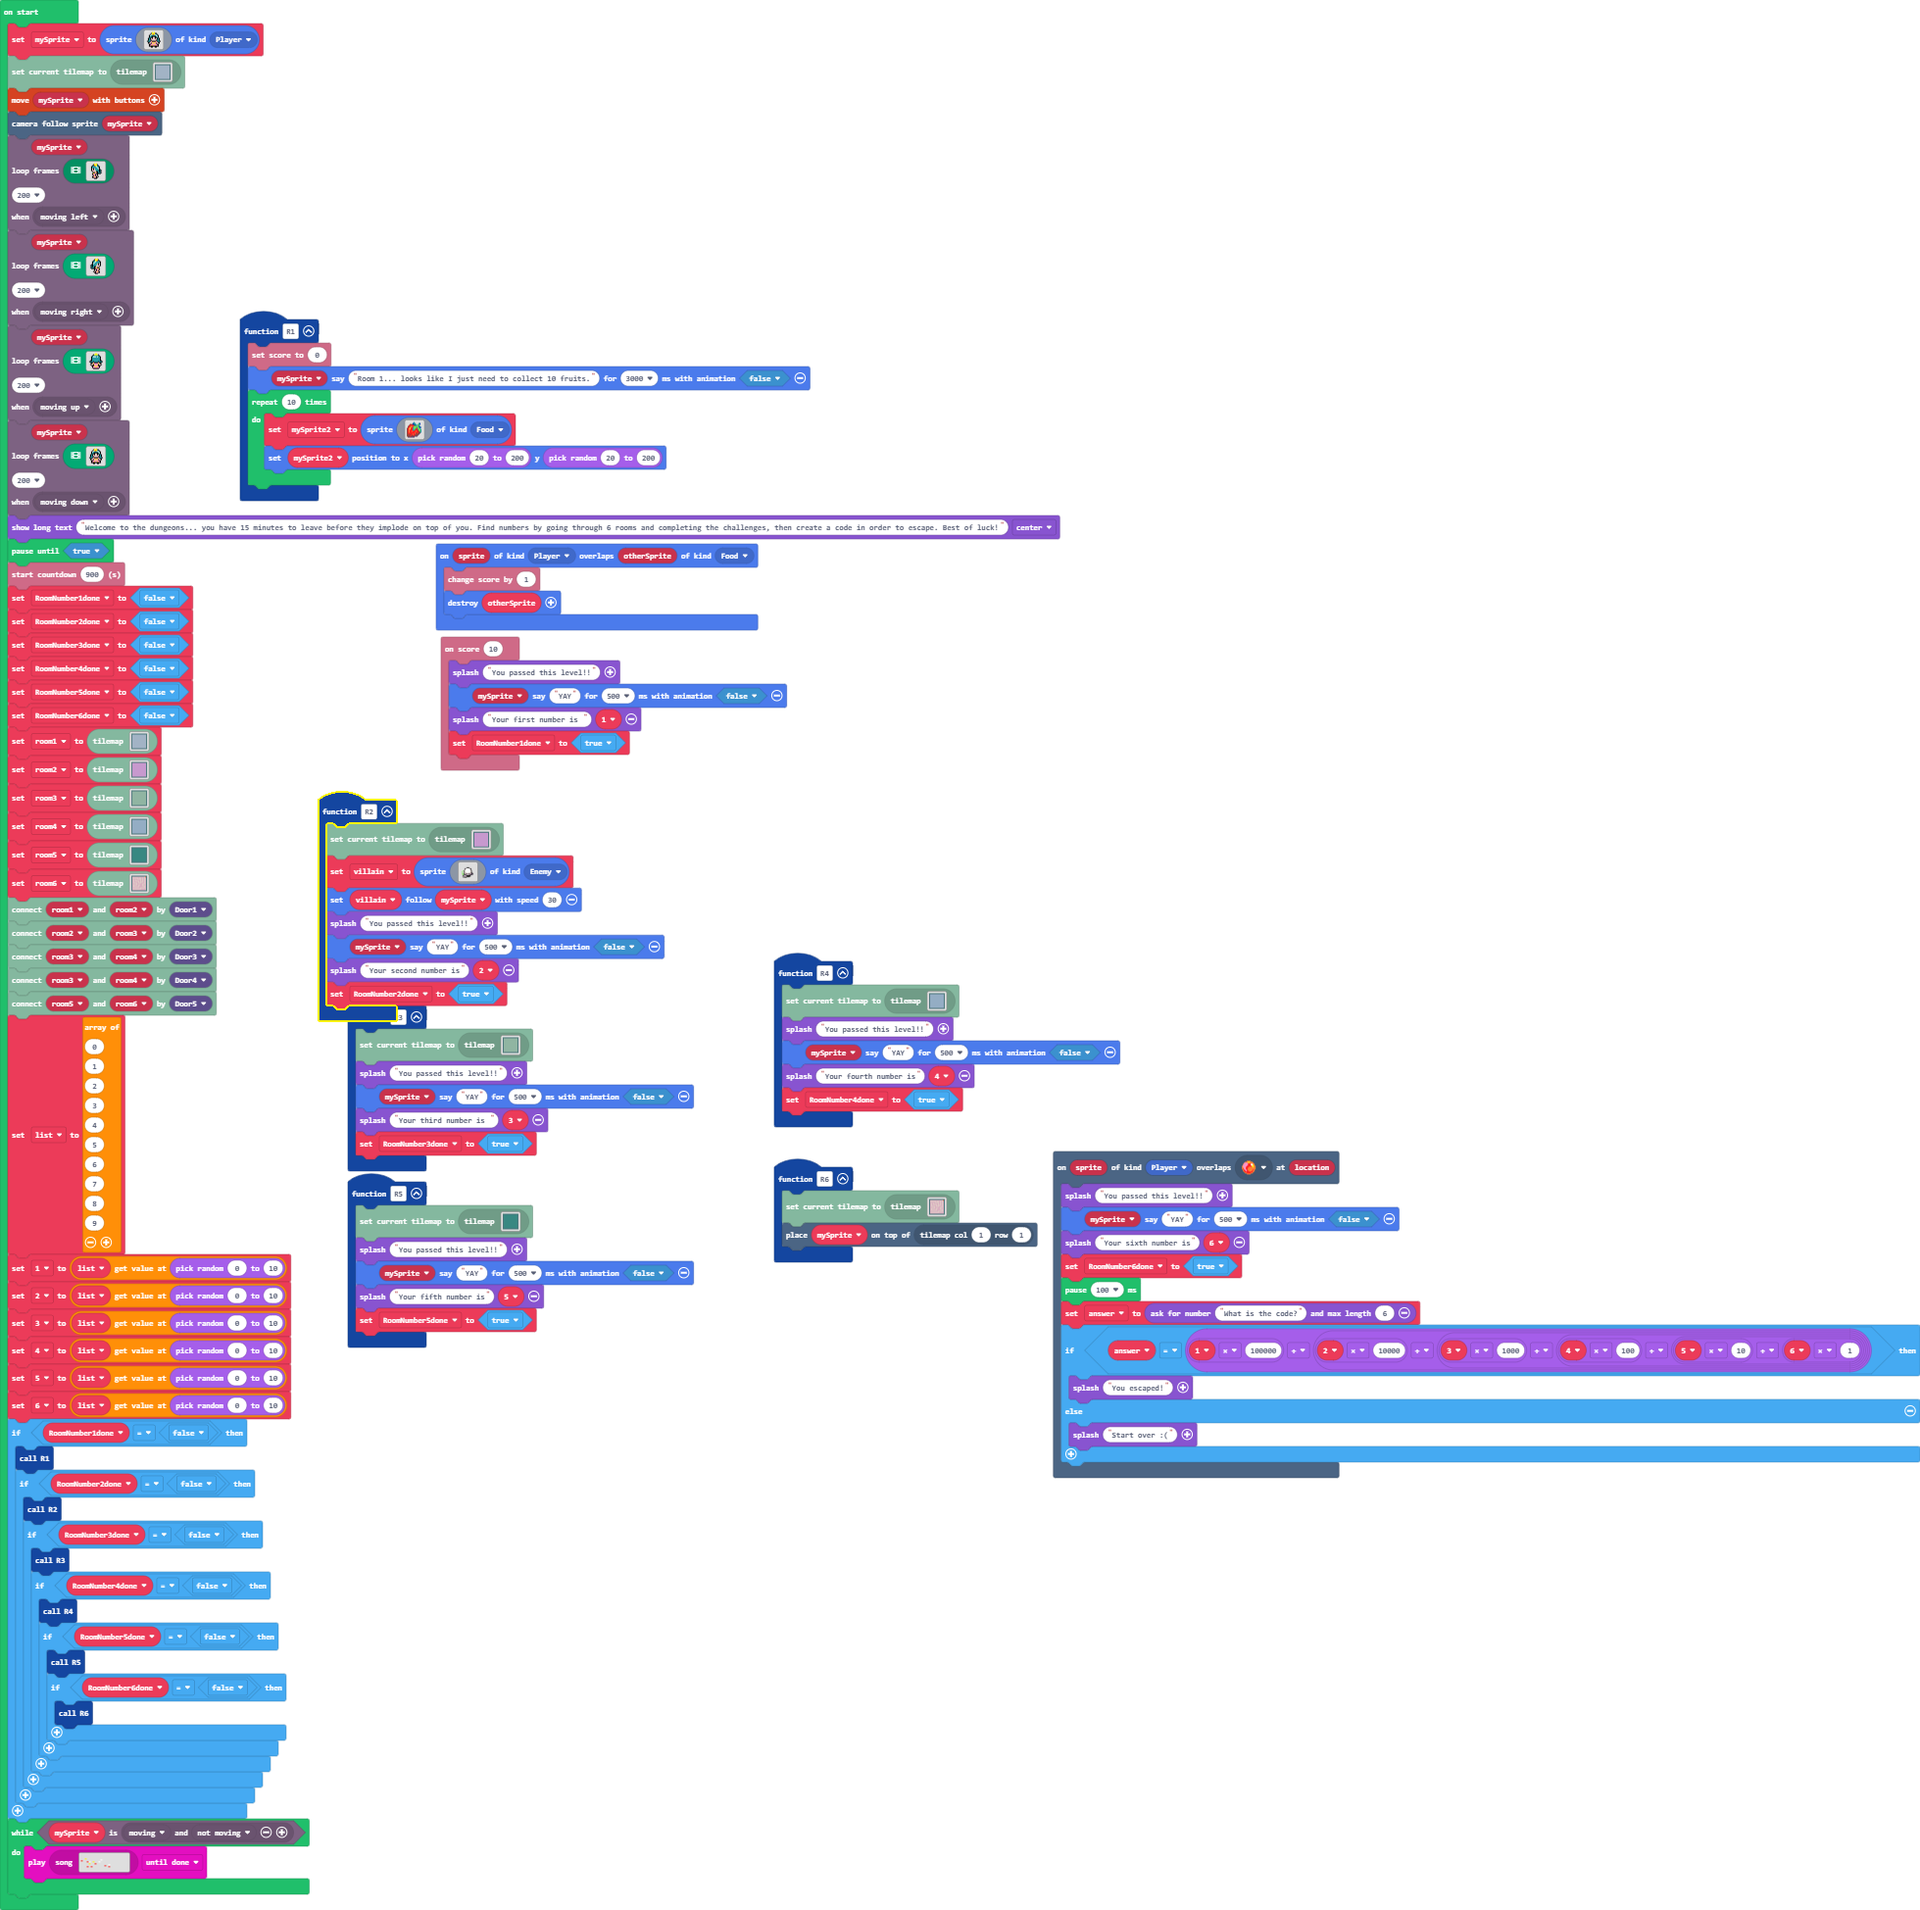
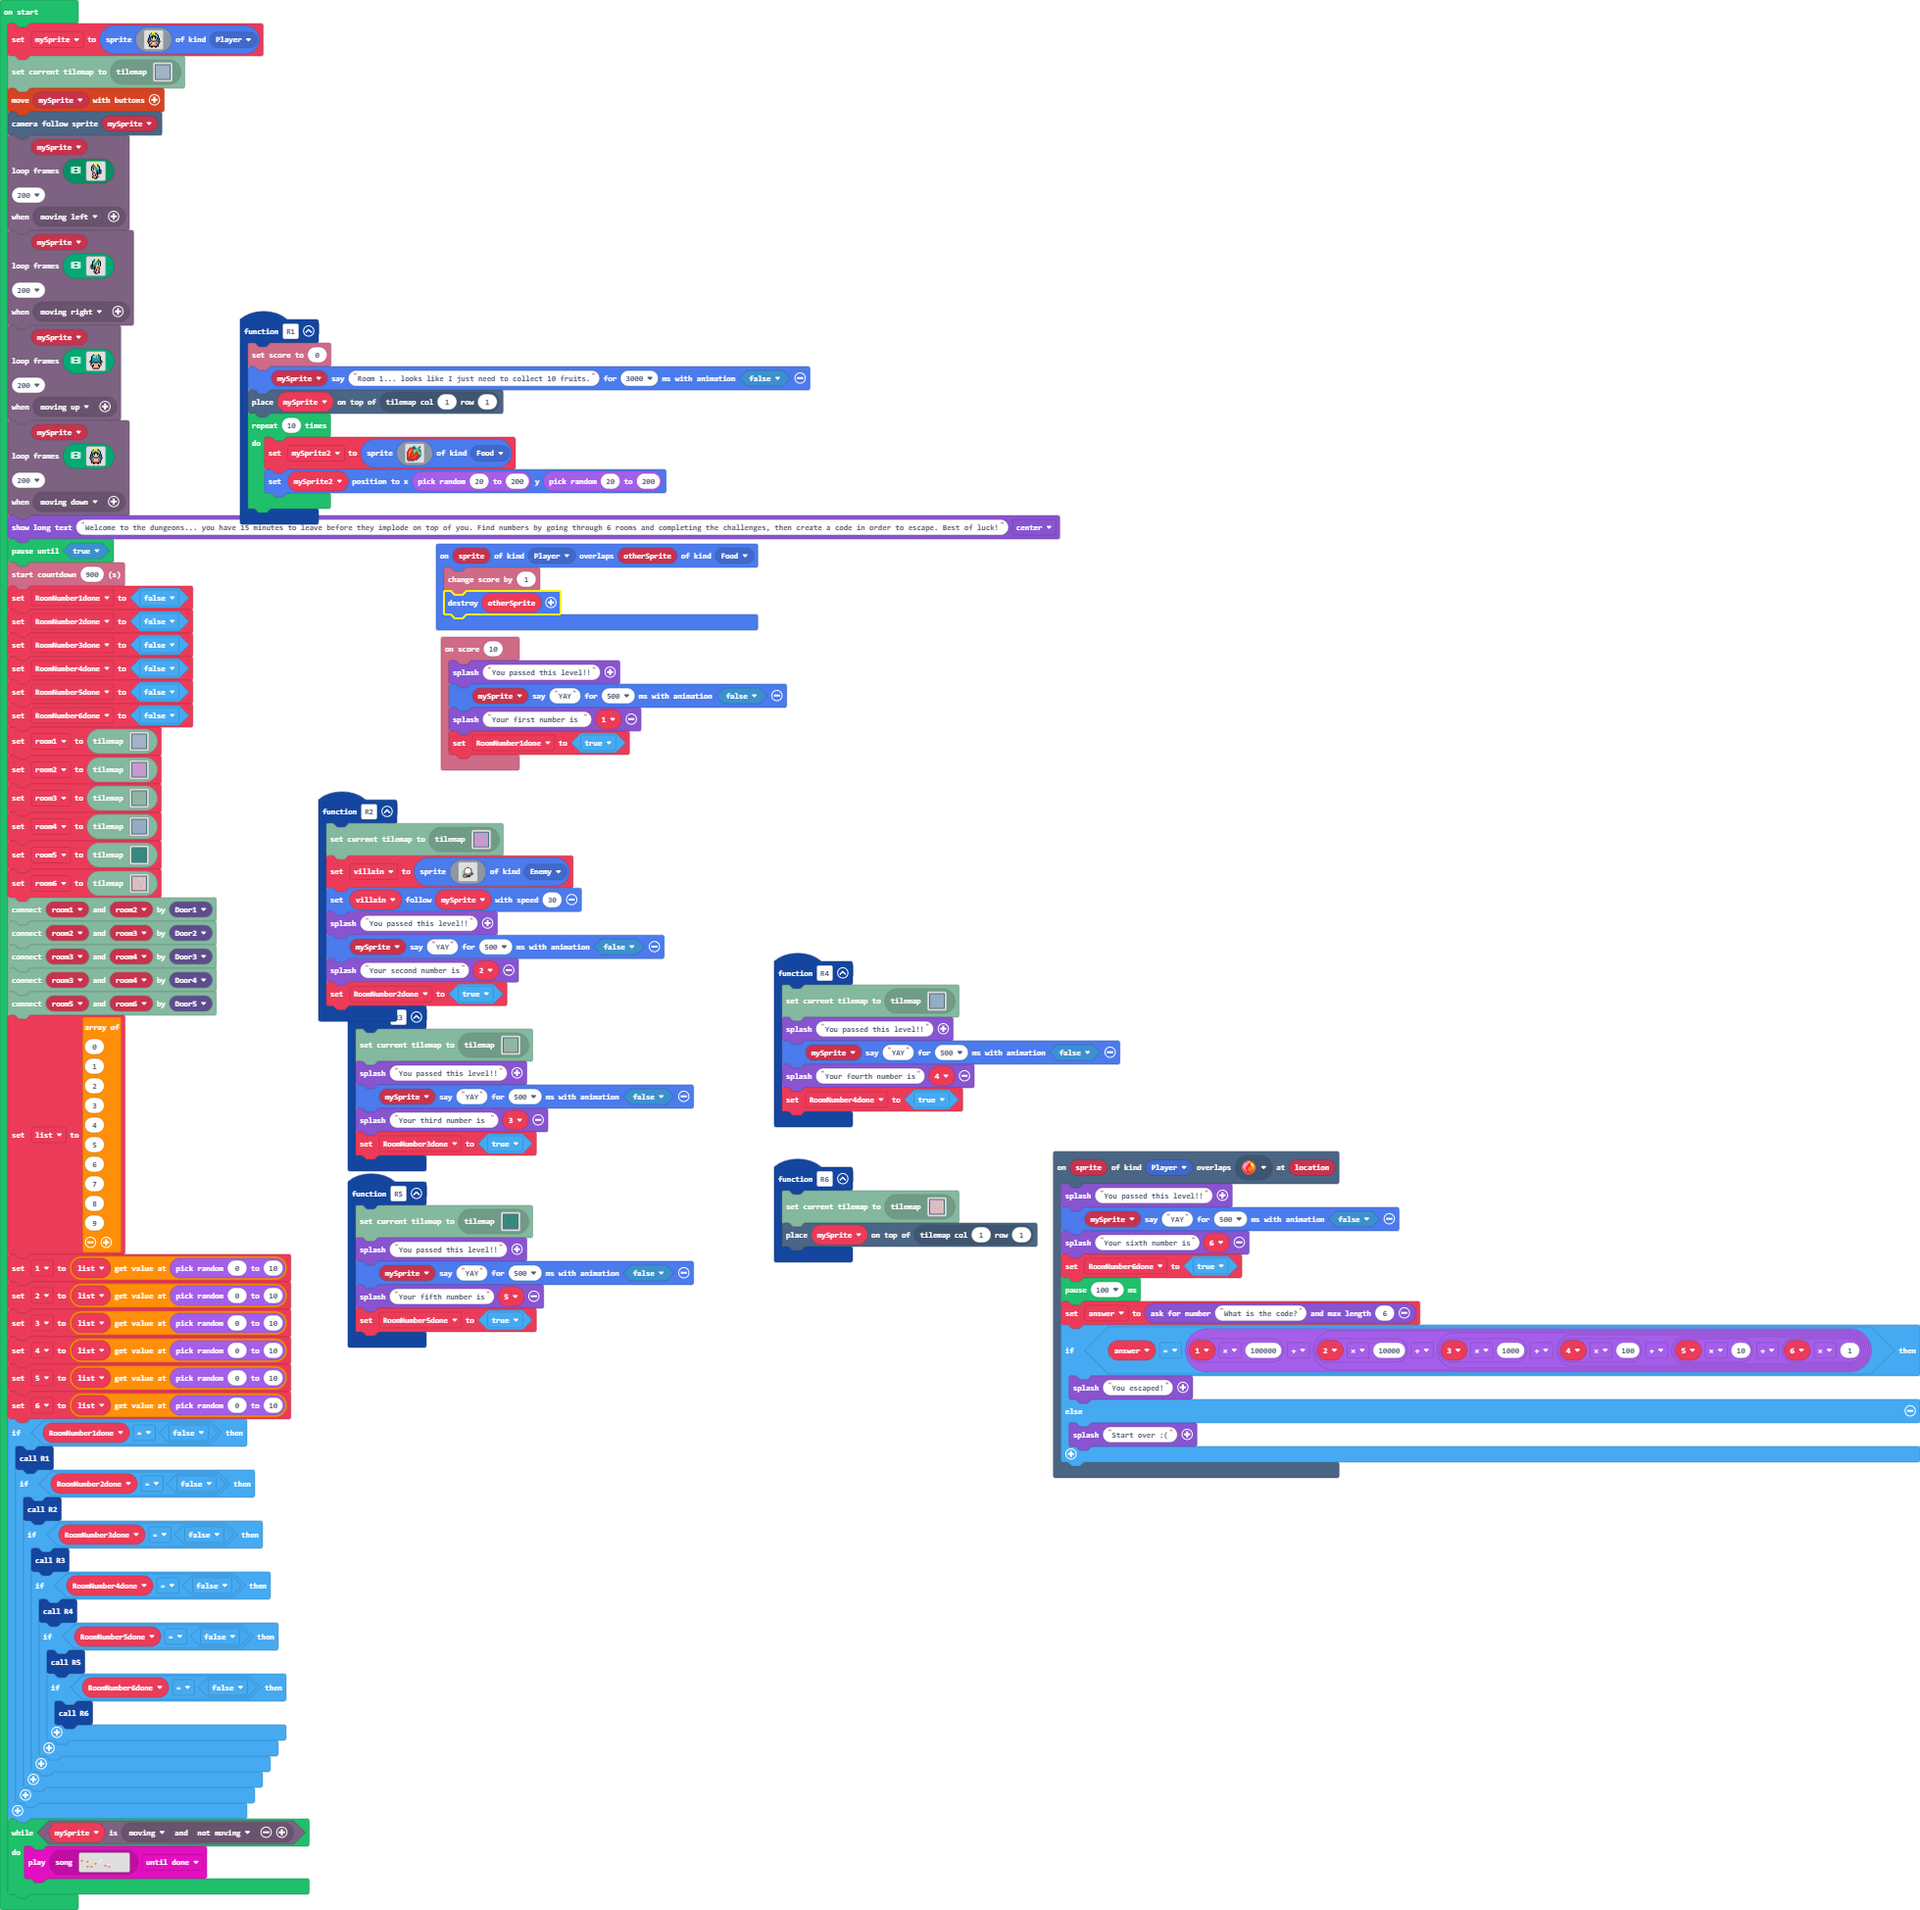
location of sprite

Changed region(s): [[0.1246, 0.1847, 0.3425, 0.2771]]

diff --git a/main.ts b/main.ts
@@ -10,6 +10,7 @@ function R6 () {
 function R1 () {
     info.setScore(0)
     mySprite.sayText("Room 1... looks like I just need to collect 10 fruits.", 3000, false)
+    tiles.placeOnTile(mySprite, tiles.getTileLocation(1, 1))
     for (let index = 0; index < 10; index++) {
         mySprite2 = sprites.create(img`
             . . . . . . . 6 . . . . . . . . 
